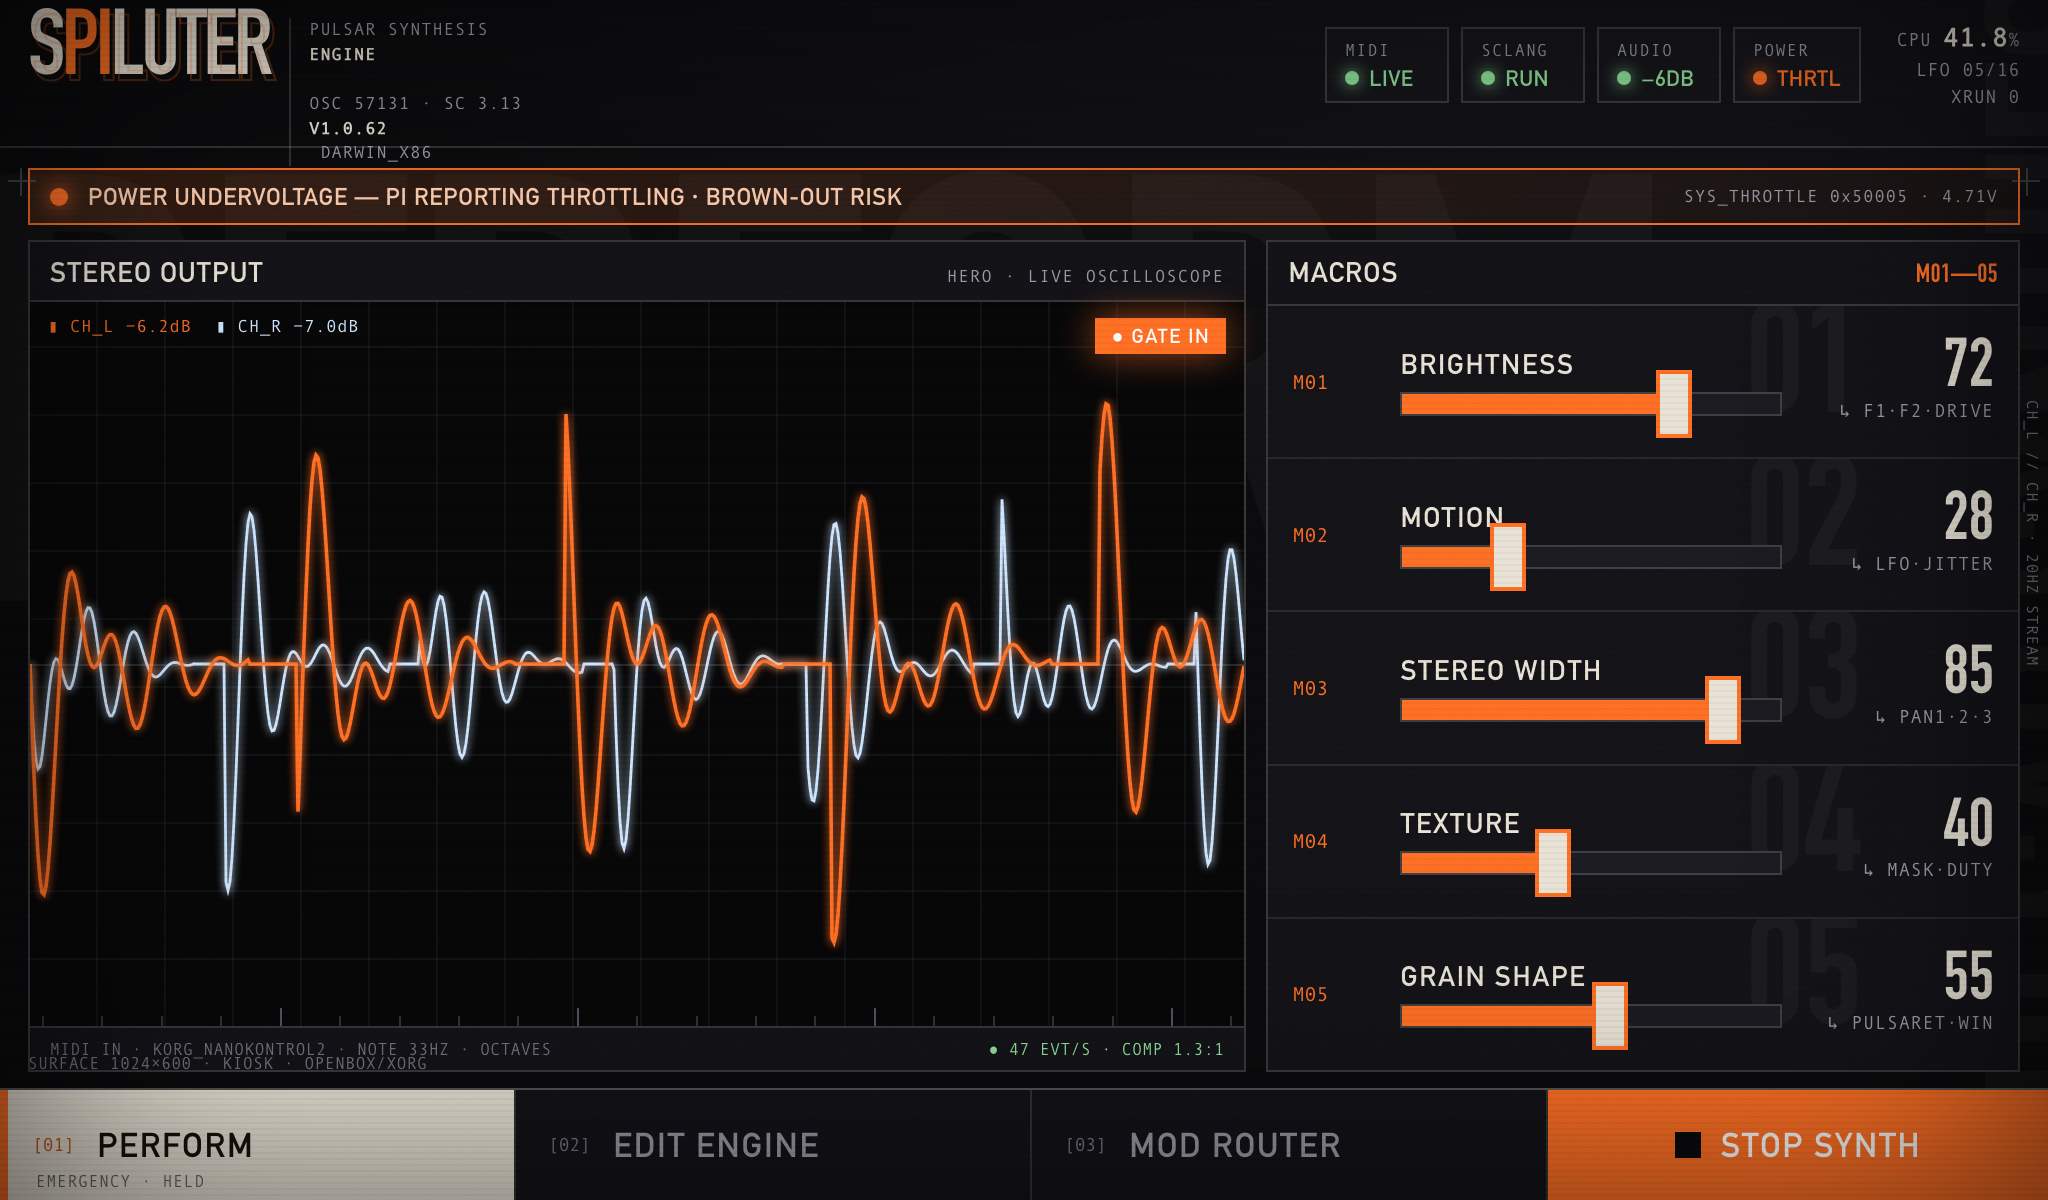
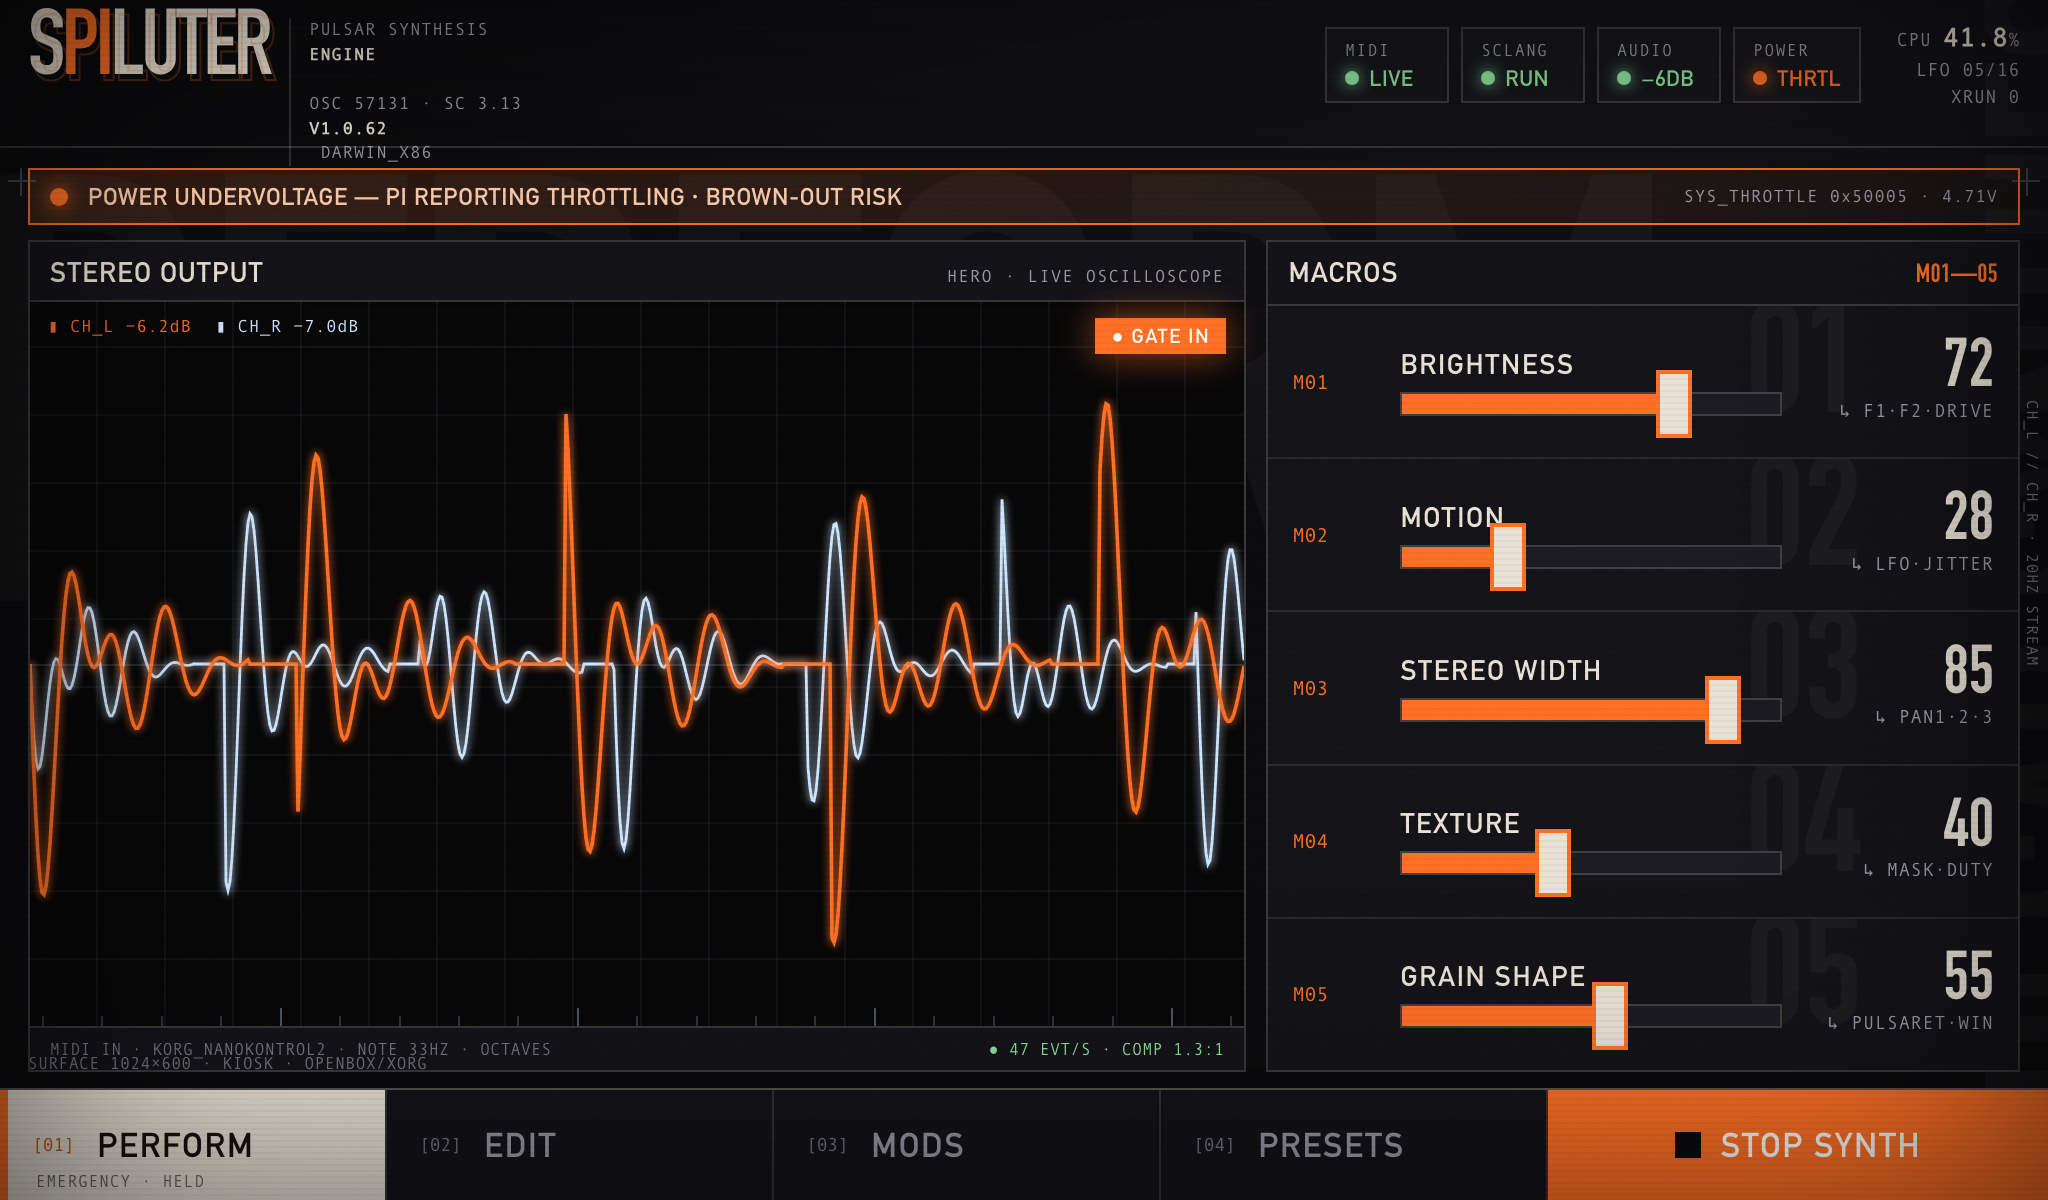
Add Presets (save/recall) mockup screen
New 04_presets screen demonstrating saving and recalling
configurations: a 32-slot preset bank (saved slots with waveform
signatures + empty slots) and a slot-detail panel showing the
captured state (30 params, LFO bus routes, sample, macros) with
Recall / Save / Rename / Clear touch actions.

Also wires a 4th "Presets" tab into the bottom nav across all
screens (labels shortened to Perform / Edit / Mods / Presets to
fit four tabs) and adds the preset styles + signature helper to
the shared bt.css / bt.js. render.sh and README updated.

diff --git a/updated_designs/src/04_presets.html b/updated_designs/src/04_presets.html
@@ -1,0 +1,119 @@
+<!doctype html><html lang="en"><head><meta charset="utf-8">
+<link rel="stylesheet" href="bt.css"><script src="bt.js"></script></head>
+<body><div class="screen">
+
+  <div class="ghost" style="left:-16px; top:116px; font-size:250px;">PRESETS</div>
+  <div class="ghost r" style="left:1006px; top:600px; font-size:104px;">SNAPSHOT·BANK·SAVE/RECALL</div>
+  <div class="grain"></div><div class="scan"></div><div class="vig"></div>
+  <div class="marg" style="left:14px; bottom:64px;">STORE spaluter-presets-v1 · 32 SLOTS · LOCAL</div>
+  <div class="marg v" style="right:3px; top:170px;">SAVE · RECALL · RENAME · CLEAR</div>
+
+  <div class="hdr">
+    <div class="brand">
+      <div style="position:relative;"><span class="echo">SPILUTER</span><span class="mark">S<span class="o">PI</span>LUTER</span></div>
+      <div class="tag">MODE&nbsp;<b>PRESETS</b><br>32&nbsp;SLOTS&nbsp;·&nbsp;9&nbsp;SAVED</div>
+    </div>
+    <div class="hdr-right">
+      <div class="chips">
+        <div class="chip ok"><div class="k">MIDI</div><div class="s"><span class="dot"></span><span class="lbl">LIVE</span></div></div>
+        <div class="chip ok"><div class="k">SCLANG</div><div class="s"><span class="dot"></span><span class="lbl">RUN</span></div></div>
+        <div class="chip ok"><div class="k">AUDIO</div><div class="s"><span class="dot"></span><span class="lbl">−6dB</span></div></div>
+        <div class="chip ok"><div class="k">POWER</div><div class="s"><span class="dot"></span><span class="lbl">5.1V</span></div></div>
+      </div>
+      <div class="cpu">CPU&nbsp;<b>39.4</b>%<br>LFO&nbsp;04/16<br>XRUN&nbsp;0</div>
+    </div>
+  </div>
+
+  <div style="position:absolute; left:14px; right:14px; top:88px; bottom:64px; display:flex; gap:10px; z-index:10;">
+
+    <!-- PRESET BANK -->
+    <div class="panel pbank" style="flex:1.25;">
+      <div class="ph"><span class="t">Preset Bank</span><span class="m">SHOWING&nbsp;01–11&nbsp;/&nbsp;32&nbsp;·&nbsp;SCROLL</span></div>
+      <div class="list">
+        <div class="prow"><span class="pn">01</span>
+          <div class="info"><span class="nm">Init Patch</span><span class="meta">30P · 0 LFO</span></div>
+          <canvas class="sig" id="s1"></canvas><span class="dot"></span></div>
+        <div class="prow"><span class="pn">02</span>
+          <div class="info"><span class="nm">Glass Formants</span><span class="meta">30P · 2 LFO</span></div>
+          <canvas class="sig" id="s2"></canvas><span class="dot"></span></div>
+        <div class="prow on"><span class="pn">03</span>
+          <div class="info"><span class="nm">Tidal Drone</span><span class="meta">30P · 4 LFO · SMPL</span></div>
+          <canvas class="sig" id="s3"></canvas><span class="dot"></span></div>
+        <div class="prow"><span class="pn">04</span>
+          <div class="info"><span class="nm">Vox Choir</span><span class="meta">30P · 3 LFO</span></div>
+          <canvas class="sig" id="s4"></canvas><span class="dot"></span></div>
+        <div class="prow"><span class="pn">05</span>
+          <div class="info"><span class="nm">Grain Storm</span><span class="meta">30P · 6 LFO · SMPL</span></div>
+          <canvas class="sig" id="s5"></canvas><span class="dot"></span></div>
+        <div class="prow empty"><span class="pn">06</span>
+          <div class="info"><span class="nm">— empty —</span><span class="meta">available</span></div>
+          <span></span><span class="dot"></span></div>
+        <div class="prow"><span class="pn">07</span>
+          <div class="info"><span class="nm">Sub Pulse</span><span class="meta">30P · 1 LFO</span></div>
+          <canvas class="sig" id="s7"></canvas><span class="dot"></span></div>
+        <div class="prow"><span class="pn">08</span>
+          <div class="info"><span class="nm">Metallic Swarm</span><span class="meta">30P · 5 LFO</span></div>
+          <canvas class="sig" id="s8"></canvas><span class="dot"></span></div>
+        <div class="prow empty"><span class="pn">09</span>
+          <div class="info"><span class="nm">— empty —</span><span class="meta">available</span></div>
+          <span></span><span class="dot"></span></div>
+        <div class="prow"><span class="pn">10</span>
+          <div class="info"><span class="nm">Whisper Bed</span><span class="meta">30P · 2 LFO · SMPL</span></div>
+          <canvas class="sig" id="s10"></canvas><span class="dot"></span></div>
+        <div class="prow"><span class="pn">11</span>
+          <div class="info"><span class="nm">Chord Stab</span><span class="meta">30P · 0 LFO</span></div>
+          <canvas class="sig" id="s11"></canvas><span class="dot"></span></div>
+      </div>
+    </div>
+
+    <!-- SLOT DETAIL / ACTIONS -->
+    <div class="panel pdetail" style="flex:1;">
+      <div class="ph"><span class="t">Slot Detail</span><span class="num">03</span></div>
+      <div class="pdbody">
+        <div class="pdtop">
+          <div class="big">03</div>
+          <div class="who">
+            <div class="nm">Tidal Drone</div>
+            <div class="sub">SAVED 2026-06-13 14:51 · 4.2 KB · v1</div>
+          </div>
+        </div>
+
+        <div class="psig-big"><span class="tag">SNAPSHOT SIGNATURE · OUTPUT</span><canvas id="bigsig"></canvas></div>
+
+        <div class="pcap">
+          <div class="cell"><div class="k">Parameters</div><div class="v"><b>30</b> / 30 captured</div></div>
+          <div class="cell"><div class="k">LFO Bus</div><div class="v"><b>4</b> active routes</div></div>
+          <div class="cell"><div class="k">Sample</div><div class="v">ocean_loop.wav</div></div>
+          <div class="cell"><div class="k">Macros</div><div class="v">M01–05 mapped</div></div>
+        </div>
+
+        <div class="pfield"><span class="k">Name</span><span class="input">TIDAL DRONE</span><span class="caret"></span></div>
+
+        <div class="pact">
+          <div class="pbtn primary"><span class="ic">↺</span>RECALL</div>
+          <div class="pbtn"><span class="ic">⤓</span>SAVE&nbsp;HERE</div>
+          <div class="pbtn"><span class="ic">✎</span>RENAME</div>
+          <div class="pbtn danger"><span class="ic">✕</span>CLEAR</div>
+        </div>
+      </div>
+    </div>
+  </div>
+
+  <div class="nav">
+    <div class="tab"><span class="ix">[01]</span><span class="nm">Perform</span></div>
+    <div class="tab"><span class="ix">[02]</span><span class="nm">Edit</span></div>
+    <div class="tab"><span class="ix">[03]</span><span class="nm">Mods</span></div>
+    <div class="tab on"><span class="ix">[04]</span><span class="nm">Presets</span></div>
+    <div class="kill"><span class="sq"></span><span class="nm">Stop Synth</span><span class="sub">EMERGENCY · HELD</span></div>
+  </div>
+
+</div>
+<script>window.__draw=function(){
+  drawWave('s1','sine','#8fe39b'); drawWave('s2','sinc','#1f8bff');
+  drawWave('s3','tri','#ff6f24');  drawWave('s4','gauss','#cfe6ff');
+  drawWave('s5','rand','#8fe39b'); drawWave('s7','square','#ff6f24');
+  drawWave('s8','saw','#cfe6ff');  drawWave('s10','sine','#1f8bff');
+  drawWave('s11','square','#8fe39b');
+  drawScope('bigsig');
+};</script>
+</body></html>

diff --git a/updated_designs/src/bt.css b/updated_designs/src/bt.css
@@ -310,3 +310,72 @@ body{
 .modbar .t b{ color:var(--shock); }
 .modbar .m{ font-family:"Andale Mono","Menlo",monospace; font-size:9px; color:var(--mute-2);
   letter-spacing:.07em; }
+
+/* ============================================================
+   PRESETS / SNAPSHOTS
+   ============================================================ */
+.pbank{ display:flex; flex-direction:column; }
+.pbank .list{ flex:1; min-height:0; overflow:hidden; display:flex; flex-direction:column; }
+.prow{ position:relative; display:grid; grid-template-columns:40px 1fr 64px 14px;
+  align-items:center; gap:10px; padding:0 12px; height:37px;
+  border-bottom:1px solid var(--line); overflow:hidden; }
+.prow:last-child{ border-bottom:none; }
+.prow .info{ display:flex; flex-direction:column; gap:1px; min-width:0; }
+.prow .pn{ font-family:"DINCond","DIN Condensed", Impact; font-weight:700; font-size:22px;
+  color:var(--mute-2); line-height:.8; }
+.prow .nm{ font-family:"DINAlt","DIN Alternate"; font-weight:700; font-size:14px;
+  letter-spacing:.03em; text-transform:uppercase; color:var(--paper);
+  white-space:nowrap; overflow:hidden; text-overflow:ellipsis; }
+.prow .meta{ font-family:"Andale Mono","Menlo",monospace; font-size:8px; color:var(--mute);
+  letter-spacing:.05em; text-transform:uppercase; }
+.prow .sig{ width:64px; height:22px; display:block; }
+.prow .dot{ width:7px; height:7px; border-radius:50%; background:var(--ok);
+  box-shadow:0 0 7px var(--ok); justify-self:end; }
+.prow.empty .pn{ color:rgba(233,227,214,.18); }
+.prow.empty .nm{ color:var(--mute); font-style:normal; }
+.prow.empty .dot{ background:none; box-shadow:none; border:1px solid var(--line-2); }
+.prow.on{ background:linear-gradient(90deg, rgba(255,111,36,.18), rgba(255,111,36,.02)); }
+.prow.on::before{ content:""; position:absolute; left:0; top:0; bottom:0; width:3px; background:var(--shock); }
+.prow.on .pn{ color:var(--shock); }
+
+/* detail / action panel */
+.pdetail{ display:flex; flex-direction:column; }
+.pdbody{ flex:1; min-height:0; display:flex; flex-direction:column; padding:10px 12px; gap:9px; }
+.pdtop{ display:flex; align-items:flex-start; gap:12px; }
+.pdtop .big{ font-family:"DINCond","DIN Condensed", Impact; font-weight:700; font-size:60px;
+  line-height:.74; color:var(--shock); }
+.pdtop .who .nm{ font-family:"DINAlt","DIN Alternate"; font-weight:700; font-size:22px;
+  letter-spacing:.02em; text-transform:uppercase; color:var(--paper); }
+.pdtop .who .sub{ font-family:"Andale Mono","Menlo",monospace; font-size:8.5px; color:var(--mute-2);
+  letter-spacing:.06em; margin-top:3px; }
+.psig-big{ position:relative; height:70px; background:#070708; border:1px solid var(--line-2); overflow:hidden; }
+.psig-big canvas{ display:block; width:100%; height:100%; }
+.psig-big .tag{ position:absolute; left:7px; top:5px; font-family:"Andale Mono","Menlo",monospace;
+  font-size:8px; color:var(--mute-2); letter-spacing:.06em; }
+
+.pcap{ display:grid; grid-template-columns:1fr 1fr; gap:6px; }
+.pcap .cell{ border:1px solid var(--line-2); padding:6px 8px; background:rgba(255,255,255,.012); }
+.pcap .cell .k{ font-family:"Andale Mono","Menlo",monospace; font-size:8px; color:var(--mute);
+  letter-spacing:.07em; text-transform:uppercase; }
+.pcap .cell .v{ font-family:"DINAlt","DIN Alternate"; font-weight:700; font-size:13px;
+  color:var(--paper); margin-top:2px; letter-spacing:.02em; }
+.pcap .cell .v b{ color:var(--acid); }
+
+.pfield{ display:flex; align-items:center; gap:8px; border:1px solid var(--line-2);
+  padding:0 10px; height:38px; background:#070708; }
+.pfield .k{ font-family:"Andale Mono","Menlo",monospace; font-size:8px; color:var(--mute);
+  letter-spacing:.07em; text-transform:uppercase; }
+.pfield .input{ flex:1; font-family:"DINAlt","DIN Alternate"; font-weight:700; font-size:15px;
+  color:var(--paper); letter-spacing:.03em; text-transform:uppercase; }
+.pfield .caret{ width:2px; height:18px; background:var(--shock); }
+
+.pact{ display:grid; grid-template-columns:1fr 1fr; gap:7px; }
+.pbtn{ height:46px; display:flex; align-items:center; justify-content:center; gap:8px;
+  border:1px solid var(--line-2); background:var(--ink-3);
+  font-family:"DINAlt","DIN Alternate"; font-weight:700; font-size:15px;
+  letter-spacing:.05em; text-transform:uppercase; color:var(--paper); }
+.pbtn .ic{ font-size:13px; color:var(--mute-2); }
+.pbtn.primary{ background:var(--shock); border-color:var(--shock); color:#fff; }
+.pbtn.primary .ic{ color:#fff; }
+.pbtn.danger{ color:var(--shock); border-color:rgba(255,111,36,.5); }
+.pbtn.danger .ic{ color:var(--shock); }

diff --git a/updated_designs/src/01_perform.html b/updated_designs/src/01_perform.html
@@ -91,8 +91,9 @@
   <!-- nav -->
   <div class="nav">
     <div class="tab on"><span class="ix">[01]</span><span class="nm">Perform</span></div>
-    <div class="tab"><span class="ix">[02]</span><span class="nm">Edit Engine</span></div>
-    <div class="tab"><span class="ix">[03]</span><span class="nm">Mod Router</span></div>
+    <div class="tab"><span class="ix">[02]</span><span class="nm">Edit</span></div>
+    <div class="tab"><span class="ix">[03]</span><span class="nm">Mods</span></div>
+    <div class="tab"><span class="ix">[04]</span><span class="nm">Presets</span></div>
     <div class="kill"><span class="sq"></span><span class="nm">Stop Synth</span><span class="sub">EMERGENCY · HELD</span></div>
   </div>
 

diff --git a/updated_designs/src/02_edit.html b/updated_designs/src/02_edit.html
@@ -81,8 +81,9 @@
 
   <div class="nav">
     <div class="tab"><span class="ix">[01]</span><span class="nm">Perform</span></div>
-    <div class="tab on"><span class="ix">[02]</span><span class="nm">Edit Engine</span></div>
-    <div class="tab"><span class="ix">[03]</span><span class="nm">Mod Router</span></div>
+    <div class="tab on"><span class="ix">[02]</span><span class="nm">Edit</span></div>
+    <div class="tab"><span class="ix">[03]</span><span class="nm">Mods</span></div>
+    <div class="tab"><span class="ix">[04]</span><span class="nm">Presets</span></div>
     <div class="kill"><span class="sq"></span><span class="nm">Stop Synth</span><span class="sub">EMERGENCY · HELD</span></div>
   </div>
 

diff --git a/updated_designs/src/03_mods.html b/updated_designs/src/03_mods.html
@@ -82,8 +82,9 @@
 
   <div class="nav">
     <div class="tab"><span class="ix">[01]</span><span class="nm">Perform</span></div>
-    <div class="tab"><span class="ix">[02]</span><span class="nm">Edit Engine</span></div>
-    <div class="tab on"><span class="ix">[03]</span><span class="nm">Mod Router</span></div>
+    <div class="tab"><span class="ix">[02]</span><span class="nm">Edit</span></div>
+    <div class="tab on"><span class="ix">[03]</span><span class="nm">Mods</span></div>
+    <div class="tab"><span class="ix">[04]</span><span class="nm">Presets</span></div>
     <div class="kill"><span class="sq"></span><span class="nm">Stop Synth</span><span class="sub">EMERGENCY · HELD</span></div>
   </div>
 

diff --git a/updated_designs/src/README.md b/updated_designs/src/README.md
@@ -14,6 +14,7 @@ These are **mockups only** — they are not wired into the Electron app.
 | `01_perform.png` | Perform | Hero stereo output scope; 5 large macro lanes; persistent MIDI/SC/Audio/Power status chips; undervoltage banner; dedicated red-orange Stop Synth transport; consolidated bottom nav. |
 | `02_edit.png` | Edit Engine | Dense parameters reorganized into 4 grouped touch cards (Core / Timbre+Wave / Formants / Texture) with vector wave + window previews and large touch sliders. |
 | `03_modulation.png` | Mod Router | 16-slot internal LFO bus shown as active routing cards with live shape previews, rate/depth readouts, and bus targets. |
+| `04_presets.png` | Presets | Save/recall configurations: a 32-slot preset bank (saved + empty slots with waveform signatures) plus a slot-detail panel showing what's captured (params, LFO bus, sample, macros) with Recall / Save / Rename / Clear actions. |
 
 ## Design tokens
 
@@ -42,5 +43,5 @@ Helvetica Neue, Andale Mono). Override the browser with `CHROME=/path/to/chrome 
 
 - `bt.css` — shared design system + all component styles
 - `bt.js` — canvas drawing for scope / waveform / LFO previews
-- `01_perform.html`, `02_edit.html`, `03_mods.html` — the three screens
-- `render.sh` — renders all three to `../*.png`
+- `01_perform.html`, `02_edit.html`, `03_mods.html`, `04_presets.html` — the four screens
+- `render.sh` — renders all four to `../*.png`
